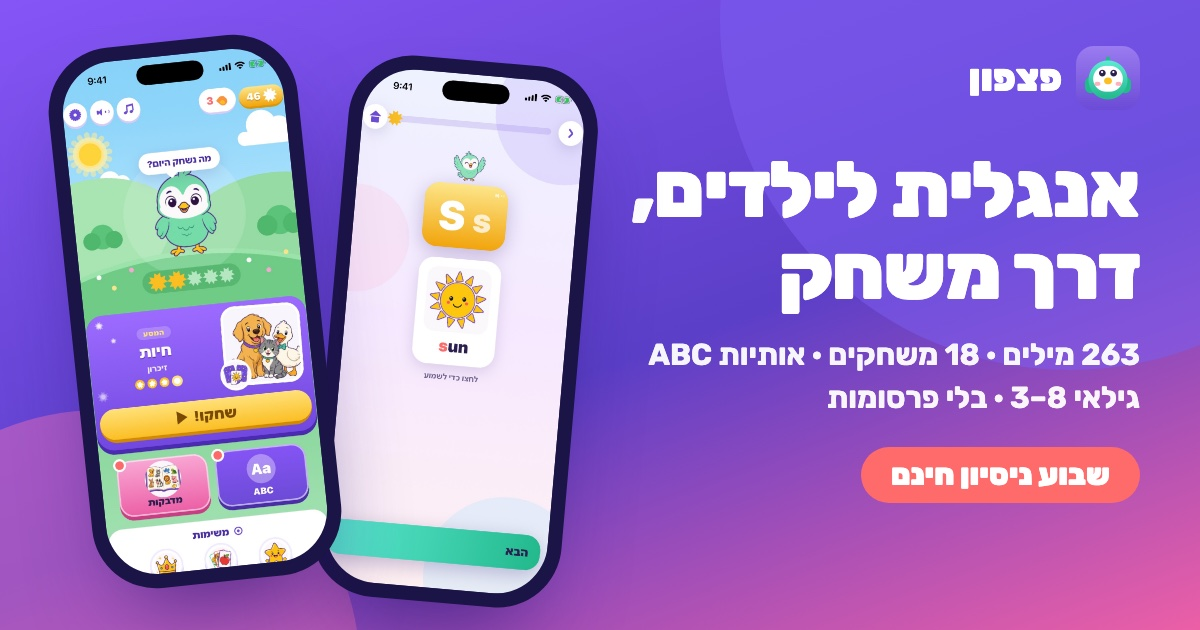
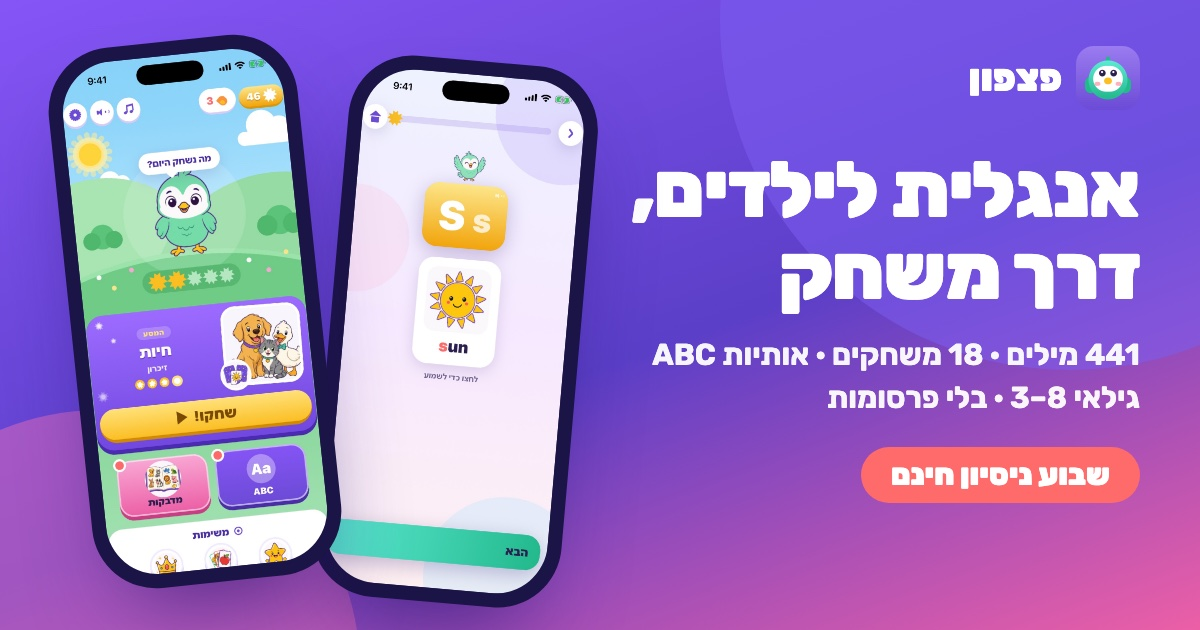
Add files via upload

Changed region(s): [[0.5242, 0.5429, 0.9558, 0.6032]]

diff --git a/index.html b/index.html
@@ -3,8 +3,8 @@
 <head>
 <meta charset="utf-8">
 <meta name="viewport" content="width=device-width, initial-scale=1, viewport-fit=cover">
-<title>פצפון – אנגלית לילדים דרך משחק</title>
-<meta name="description" content="פצפון מלמדת ילדים בגילאי 3–8 את המילים הראשונות באנגלית דרך 18 משחקים: חללית, שובר לבנים, בועות ועוד. בלי פרסומות, בלי מעקב, עובד גם בלי אינטרנט.">
+<title>פצפון – אנגלית וקריאה בעברית לילדים, דרך משחק</title>
+<meta name="description" content="פצפון מלמדת ילדים בגילאי 3–8 את המילים הראשונות באנגלית דרך 18 משחקים: חללית, שובר לבנים, בועות ועוד. חדש: קוראים עברית עם ניקוד לגילאי 6–8. בלי פרסומות, בלי מעקב, עובד גם בלי אינטרנט.">
 <meta name="theme-color" content="#6C4BD6">
 <link rel="icon" href="img/favicon.png">
 <link rel="apple-touch-icon" href="img/icon.png">
@@ -12,8 +12,8 @@
 <!-- How the link looks when shared on WhatsApp / Facebook -->
 <meta property="og:type" content="website">
 <meta property="og:locale" content="he_IL">
-<meta property="og:title" content="פצפון – אנגלית לילדים דרך משחק">
-<meta property="og:description" content="263 מילים, 18 משחקים ועכשיו גם אותיות ABC. מסלול לפי גיל, בלי פרסומות ובלי מעקב. שבוע ניסיון חינם.">
+<meta property="og:title" content="פצפון – אנגלית וקריאה בעברית לילדים, דרך משחק">
+<meta property="og:description" content="חדש: קוראים עברית עם ניקוד! וגם 439 מילים באנגלית ב-25 נושאים, 18 משחקים ואותיות ABC. בלי פרסומות ובלי מעקב. שבוע ניסיון חינם.">
 <meta property="og:image" content="https://pizpon.com/img/og.jpg">
 <meta name="twitter:card" content="summary_large_image">
 <meta name="apple-itunes-app" content="app-id=6800318411">
@@ -184,6 +184,22 @@
   .g-gold { background: linear-gradient(160deg, #FDE68A, #F2A50C); }
   .g-pink { background: linear-gradient(160deg, #F9A8D4, #EC5FA6); }
 
+  /* nikud */
+  .nikud-bg { background: linear-gradient(180deg, #F7F3FF, #EFE7FF); }
+  .ntiles { display: flex; justify-content: center; gap: 12px; flex-wrap: wrap; }
+  .ntile {
+    width: 76px; height: 88px; border-radius: 22px; display: grid; place-items: center;
+    font-size: 54px; font-weight: 800; color: #fff; line-height: 1;
+    background: linear-gradient(160deg, #9D6BFF, #6C4BD6); box-shadow: 0 7px 0 #4A2FA6, 0 20px 30px -16px rgba(40, 20, 110, .7);
+  }
+  .nword {
+    display: block; width: fit-content; margin: 30px auto 0; background: #fff; border-radius: 26px;
+    padding: 4px 30px 10px; font-size: 64px; font-weight: 800; color: var(--grape-dark);
+    box-shadow: 0 8px 0 #E4DCFA, 0 24px 36px -18px rgba(59, 42, 120, .5);
+  }
+  .nword small { display: block; font-size: 16px; font-weight: 700; color: var(--ink-soft); text-align: center; margin-top: -6px; }
+  @media (max-width: 480px) { .ntile { width: 58px; height: 68px; font-size: 40px; border-radius: 18px; } }
+
   /* screenshots */
   .abc-bg { background: linear-gradient(180deg, #FFF8EC, #F7F3FF); }
   .abc { display: grid; gap: 34px; align-items: center; }
@@ -281,9 +297,9 @@
   <div class="blob a"></div><div class="blob b"></div>
   <div class="wrap">
     <div>
-      <span class="pill"><span class="new">חדש!</span> לומדים גם את האותיות באנגלית – <span dir="ltr">ABC</span></span>
-      <h1>אנגלית לילדים,<br><span class="hl">דרך משחק.</span></h1>
-      <p class="lead">פצפון מלמדת ילדים בגילאי <span dir="ltr">3–8</span> את המילים הראשונות באנגלית. כל מילה עם תמונה, הקלטה קולית ותרגום, כך שגם ילד שעוד לא קורא משחק ומתקדם לבד.</p>
+      <a class="pill" href="#nikud" style="text-decoration:none"><span class="new">חדש!</span> קוראים עברית עם ניקוד – לגילאי <span dir="ltr">6–8</span></a>
+      <h1>אנגלית לילדים,<br>קריאה בעברית,<br><span class="hl">דרך משחק.</span></h1>
+      <p class="lead">פצפון מלמדת ילדים בגילאי <span dir="ltr">3–8</span> את המילים הראשונות באנגלית, ועכשיו גם לקרוא עברית עם ניקוד. כל מילה עם תמונה, הקלטה קולית ותרגום, כך שגם ילד שעוד לא קורא משחק ומתקדם לבד.</p>
       <div class="stores" id="download">
         <a class="store" href="https://apps.apple.com/app/id6800318411" data-platform="ios" rel="noopener">
           <svg viewBox="0 0 24 24" fill="currentColor" aria-hidden="true"><path d="M16.37 12.64c-.02-2.25 1.84-3.33 1.92-3.38-1.05-1.53-2.68-1.74-3.26-1.76-1.39-.14-2.71.82-3.42.82-.7 0-1.79-.8-2.95-.78-1.52.02-2.92.88-3.7 2.24-1.58 2.74-.4 6.8 1.13 9.02.75 1.09 1.64 2.31 2.81 2.27 1.13-.05 1.56-.73 2.92-.73 1.36 0 1.75.73 2.95.71 1.22-.02 1.99-1.1 2.73-2.2.86-1.26 1.21-2.49 1.23-2.55-.03-.01-2.36-.9-2.36-3.66zM14.14 6.03c.62-.76 1.04-1.8.93-2.85-.9.04-1.99.6-2.63 1.35-.58.66-1.08 1.73-.95 2.75 1 .08 2.03-.51 2.65-1.25z"/></svg>
@@ -308,9 +324,9 @@
 </header>
 
 <div class="wrap facts">
-  <div class="fact"><b>263</b><span>מילים באנגלית</span></div>
+  <div class="fact"><b>439</b><span>מילים באנגלית</span></div>
   <div class="fact"><b>18</b><span>משחקים לפי גיל</span></div>
-  <div class="fact"><b>19</b><span>נושאים</span></div>
+  <div class="fact"><b>25</b><span>נושאים</span></div>
   <div class="fact"><b>0</b><span>פרסומות</span></div>
 </div>
 
@@ -327,10 +343,30 @@
   </div>
 </section>
 
+<section class="nikud-bg" id="nikud">
+  <div class="wrap abc">
+    <div>
+      <div class="eyebrow">חדש · עולם שני</div>
+      <h2>קוראים עברית עם ניקוד</h2>
+      <p class="sub" style="margin-inline:0">עכשיו בפצפון שני עולמות: אנגלית, וקריאה בעברית לגילאי <span dir="ltr">6–8</span>. בוחרים עולם בתמרור שעל הגבעה ועוברים מתי שרוצים.</p>
+      <ul class="abc-list">
+        <li><span class="ic">✏</span><span><b>כל האותיות והניקוד</b>13 סימני ניקוד ו-9 כללי קריאה</span></li>
+        <li><span class="ic">🪜</span><span><b>11 שלבים מסודרים</b>מכירים, מוצאים, נותנים שם וקוראים</span></li>
+        <li><span class="ic">📖</span><span><b>51 מילים ראשונות לקריאה</b>מפרקים להברות ואז מחברים</span></li>
+        <li><span class="ic">🔊</span><span><b>הכול מוקרא בקול</b>גם מדריך הניקוד, שמקריא כל סימן וכל כלל</span></li>
+      </ul>
+    </div>
+    <div aria-hidden="true">
+      <div class="ntiles"><div class="ntile">בָּ</div><div class="ntile">בִּ</div><div class="ntile">בֶּ</div><div class="ntile">בֹּ</div><div class="ntile">בֻּ</div></div>
+      <div class="nword">שָׁלוֹם<small>שָׁ · לוֹם</small></div>
+    </div>
+  </div>
+</section>
+
 <section class="abc-bg">
   <div class="wrap abc">
     <div>
-      <div class="eyebrow">חדש · <span dir="ltr">ABC</span></div>
+      <div class="eyebrow"><span dir="ltr">ABC</span></div>
       <h2>לומדים את האותיות באנגלית</h2>
       <p class="sub" style="margin-inline:0">מסלול אותיות מלא, צעד אחר צעד – מהצליל של כל אות ועד המילים הראשונות שקוראים לבד.</p>
       <ul class="abc-list">
@@ -410,6 +446,7 @@
           <li>סולם קריאה: מזהים מילה, צליל פותח, אות חסרה, איות והקלדה</li>
           <li>בונים משפטים שלמים באנגלית</li>
           <li>משחקי אקשן: בלוקים (טטריס), חללית ושובר לבנים</li>
+          <li>חדש: עולם קריאה בעברית עם ניקוד</li>
         </ul>
       </div>
     </div>
@@ -447,6 +484,7 @@
       <div class="plan"><h3>לתמיד</h3><div class="price">₪79.90</div><div class="per">תשלום אחד, בלי חידוש</div><div class="note"></div></div>
     </div>
     <p class="free-line">אפשר לבטל בכל רגע מהגדרות החנות.</p>
+    <p class="free-line" style="font-size:.85em;opacity:.8">המחירים לחשבון חנות ישראלי. בחנות המחיר מוצג במטבע של המדינה שבה רשום חשבון ה-App Store או ה-Google Play שלכם.</p>
   </div>
 </section>
 
@@ -456,6 +494,7 @@
     <div class="faq">
       <details><summary>לאיזה גיל מתאימה האפליקציה?</summary><p>לילדים בגילאי 3 עד 8. בפתיחה בוחרים גיל, והאפליקציה מציגה רק את המשחקים שמתאימים לשלב של הילד.</p></details>
       <details><summary>הילד שלי עוד לא יודע לקרוא. זה בסדר?</summary><p>בהחלט. במסלול של גילאי 3–5 לא צריך לקרוא: כל מילה נשמעת בקול עם תמונה, וכל ההוראות נאמרות בעברית.</p></details>
+      <details><summary>מה זה עולם הניקוד?</summary><p>עולם שני בתוך פצפון, לילדים דוברי עברית בגילאי 6–8 שלומדים לקרוא. 11 שלבים מלמדים את כל האותיות, 13 סימני הניקוד ו-9 כללי קריאה, עד 51 מילים ראשונות שקוראים לבד. עוברים בין אנגלית לעברית בתמרור שבמסך הבית.</p></details>
       <details><summary>יש פרסומות?</summary><p>לא. אין פרסומות, אין קישורים שקופצים לילד ואין איסוף נתונים. רכישות אפשריות רק מאזור ההורים המוגן.</p></details>
       <details><summary>זה עובד בלי אינטרנט?</summary><p>כן. כל המילים, ההקלטות והמשחקים נמצאים בתוך האפליקציה. צריך אינטרנט רק כדי לרכוש מנוי.</p></details>
       <details><summary>איך מבטלים מנוי?</summary><p>בהגדרות החשבון ב-App Store או ב-Google Play, בכל רגע. אם מבטלים בזמן שבוע הניסיון – לא מחויבים.</p></details>
@@ -487,6 +526,7 @@
 <footer>
   <div class="wrap">
     <a href="https://pizpon.com/privacy-policy.html">מדיניות פרטיות</a>
+    <a href="https://pizpon.com/terms.html">תנאי שימוש</a>
     <a href="https://pizpon.com/support.html">תמיכה</a>
     <a href="https://www.facebook.com/profile.php?id=61595134382425" rel="noopener">פייסבוק</a>
     <a href="https://instagram.com/pizponapp" rel="noopener">אינסטגרם</a>
